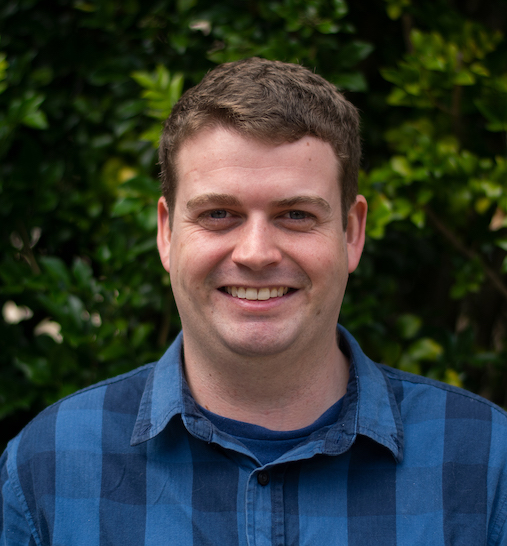
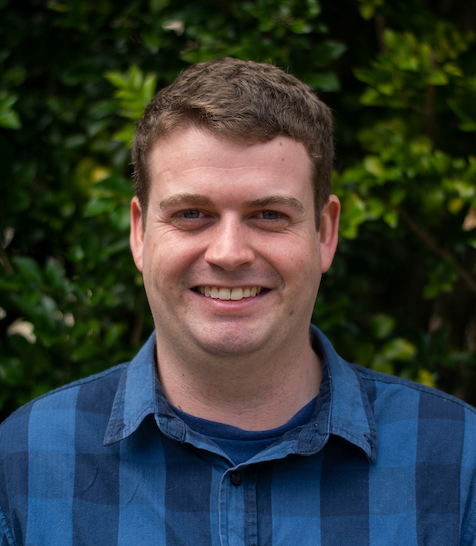
Fixes to presentation on mobile layout

diff --git a/css/site.css b/css/site.css
@@ -97,9 +97,25 @@ ul.ul-edu li .description p {
     margin: 0;
 }
 
+.highlight-img {
+    margin: 1rem;
+}
+
+@media (max-width: 600px) {
+    .highlight-img {
+        margin: 0px;
+    }
+}
+
 .list-img {
-    margin: 10px;
+    margin: 20px;
     border-radius: calc(0.25rem - 1px);
+}
+
+@media (max-width: 600px) {
+    .list-img {
+        margin: 0px;
+    }
 }
 
 #main {
@@ -123,9 +139,8 @@ ul.ul-edu li .description p {
     margin-bottom: 20px;
 }
 
-.pub-abstract {
-    margin: 2rem;
-    padding: 1rem;
+.pub-abstract h5 {
+    margin-top: 4rem;
 }
 
 .publication-details p {
@@ -144,9 +159,19 @@ ul.ul-edu li .description p {
     margin: 2rem 0rem;
 }
 
+.list-item-buttons a {
+    margin-left: 0.5rem;
+}
+
 [data-toggle="collapse"].collapsed .if-not-collapsed {
     display: none;
   }
   [data-toggle="collapse"]:not(.collapsed) .if-collapsed {
     display: none;
   }
+
+@media (max-width: 600px) {
+    .list-item-buttons a {
+        margin-bottom: 1rem;
+    }
+}

diff --git a/resources/coding-resource-list/links_websites.md b/resources/coding-resource-list/links_websites.md
@@ -2,7 +2,7 @@
 
 Name                                                                                                                                                                                     |  Description
 -----------------------------------------------------------------------------------------------------------------------------------------------------------------------------------------|-----------------------------------------------------------------------------------------------------------------------------------------------------------------------------------------------------------------------------------------------------------------------------------------------------------------------------------------------------------------------------------------------------------------------------------------------------------------------------------------------------------------------------------------------------------------------------------------------------------------------------------------------------------------------------
-[NESA Coding and Computational Thinking Across the Curriculum Guide](https://educationstandards.nsw.edu.au/wps/portal/nesa/k-10/learning-areas/technology/coding-across-the-curriculum){: class="text-info" }  |  A website created by NESA that explains what Coding and Computational Thinking are. The guide also includes suggestions for ways of integrating Coding and Computational Thinking into different Key Learning Areas, as well as links to many different websites for learning Coding.
+[NESA Digital technologies and ICT Resources Website](https://educationstandards.nsw.edu.au/wps/portal/nesa/k-10/learning-areas/technology/coding-across-the-curriculum){: class="text-info" }  |  A website created by NESA (the NSW Education Standards Authority) that explains what Coding and Computational Thinking are. The website also includes suggestions for ways of integrating Coding and Computational Thinking into different Key Learning Areas, as well as links to many different websites for learning Coding.
 [Digital Technologies Hub](https://www.digitaltechnologieshub.edu.au/){: class="text-info" }                                                                                                                   |  A website created by [Education Services Australia](https://www.esa.edu.au/){: class="text-info" } that collates a variety of resources for learning and teaching the national Digital Technologies curriculum. The website includes case studies of schools that have begun to implement Digital Technologies, as well as lesson plans and ideas for teaching Digital Technologies.
 [Computer Science Field Guide](http://csfieldguide.org.nz/){: class="text-info" }                                                                                                                              |  An online, free and interactive textbook to help high school studens learn about the different fields within the Computer Science disciple. For example, there are chapters on [Artificial Intelligence](http://csfieldguide.org.nz/en/chapters/artificial-intelligence.html){: class="text-info" } and [Network Communication Protocols](http://csfieldguide.org.nz/en/chapters/network-communication-protocols.html){: class="text-info" }. There is also a teachers' version of the Guide available, which is targeted towards New Zealand teachers but may also be useful for Australian teachers. You can find out more about the teachers' version of the guide [here](http://csfieldguide.org.nz/en/about.html){: class="text-info" }.
 [CS4FN - Computer Science 4 Fun](http://www.cs4fn.org/){: class="text-info" }                                                                                                                                  |  A webpage for the CS4FN (Computer Science for Fun) project. CS4FN publish free magazine (available online and in print) that focus on the fun side of Computer Science.

diff --git a/publications/index.md b/publications/index.md
@@ -32,7 +32,7 @@ title: Daniel Hickmott
                                 <p class="publication-dates">Published {{ pub.publicationDate }}</p>
                             </div>
                             <div class="list-item-buttons">
-                                <a href="{{ pub.locationLink }}" class="btn btn-sm btn-info float-right mx-2"
+                                <a href="{{ pub.locationLink }}" class="btn btn-sm btn-info float-right"
                                     target="_blank">
                                     View at {{ pub.locationLabel }}
                                     <i class="fa fa-external-link publication-icon"></i>
@@ -48,7 +48,7 @@ title: Daniel Hickmott
                                 </button>
                             </div>
                             <div class="collapse my-2 py-2" id="collapse-abstract-{{ pub.id }}">
-                                <div class="row pub-abstract bg-light border border-secondary rounded ">
+                                <div class="pub-abstract">
                                     <h5>Abstract</h5>
                                     <p>{{ pub.abstract }}</p>
                                 </div>
@@ -71,7 +71,7 @@ title: Daniel Hickmott
                                 <p class="publication-dates">In {{ pub.location }} during {{ pub.conferenceDate }}</p>
                             </div>
                             <div class="list-item-buttons">
-                                <a href="{{ pub.locationLink }}" class="btn btn-sm btn-info float-right mx-2"
+                                <a href="{{ pub.locationLink }}" class="btn btn-sm btn-info float-right"
                                     target="_blank">
                                     View at {{ pub.locationLabel }}
                                     <i class="fa fa-external-link publication-icon"></i>
@@ -87,7 +87,7 @@ title: Daniel Hickmott
                                 </button>
                             </div>
                             <div class="collapse my-2 py-2" id="collapse-abstract-{{ pub.id }}">
-                                <div class="row pub-abstract bg-light border border-secondary rounded ">
+                                <div class="pub-abstract">
                                     <h5>Abstract</h5>
                                     <p>{{ pub.abstract }}</p>
                                 </div>
@@ -111,7 +111,7 @@ title: Daniel Hickmott
                                 <p class="publication-dates">In {{ pub.location }} during {{ pub.conferenceDate }}</p>
                             </div>
                             <div class="list-item-buttons">
-                                <a href="{{ pub.locationLink }}" class="btn btn-sm btn-info float-right mx-2"
+                                <a href="{{ pub.locationLink }}" class="btn btn-sm btn-info float-right my-2"
                                     target="_blank">
                                     View at {{ pub.locationLabel }}
                                     <i class="fa fa-external-link publication-icon"></i>
@@ -127,7 +127,7 @@ title: Daniel Hickmott
                                 </button>
                             </div>
                             <div class="collapse my-2 py-2" id="collapse-abstract-{{ pub.id }}">
-                                <div class="row pub-abstract bg-light border border-secondary rounded ">
+                                <div class="pub-abstract">
                                     <h5>Abstract</h5>
                                     <p>{{ pub.abstract }}</p>
                                 </div>

diff --git a/index.md b/index.md
@@ -106,7 +106,7 @@ title: Daniel Hickmott
     <div class="showcase">
         <div class="container">
             <h2>Selected Publications</h2>
-            <p>I have highlighted three of my favourite publications below that I have been an author on. You can see the rest of my publications from the <a href="pubs" class="text-info">Publications page</a>.</p>
+            <p>I have highlighted three of my favourite publications below that I have been an author on. You can see the rest of my publications from the <a href="{{ site.baseurl | append: '/publications/' }}" class="text-info">Publications page</a>.</p>
             <div class="row">
             {% for publication in site.data.publications.selected %}
             <div class="col-md-4">

diff --git a/resources/teachers-learning-coding-list.md b/resources/teachers-learning-coding-list.md
@@ -9,7 +9,7 @@ title: Daniel Hickmott
             <h2>{{ site.data.resources[0].title }}</h2>
             <div class="row">
                 <div class="col-md-4 offset-md-4">
-                    <img class = "img-fluid project-img border border-secondary" src = "{{ site.baseurl | append: '/resources/images/' | append: site.data.resources[0].imageFilePath }}">
+                    <img class = "img-fluid highlight-img border border-secondary" src = "{{ site.baseurl | append: '/resources/images/' | append: site.data.resources[0].imageFilePath }}">
                 </div>
             </div>
             <h3>About</h3>   

diff --git a/media/index.md b/media/index.md
@@ -56,7 +56,7 @@ title: Daniel Hickmott
                                         <i class="fa fa-youtube media-icon"></i>
                                     </a>
                                     <a href="{{ video.findOutMoreLink }}"
-                                        class="btn btn-sm btn-info float-right mx-2"
+                                        class="btn btn-sm btn-info float-right"
                                         target="_blank">
                                         {{ video.findOutMoreLabel }}
                                         <i class="fa fa-external-link media-icon"></i>

diff --git a/projects/cs4s.md b/projects/cs4s.md
@@ -8,7 +8,7 @@ title: Daniel Hickmott
         <h2>{{ site.data.projects[0].title }}</h2>
         <div class="row">
             <div class="col-md-4 offset-md-4">
-                <img class = "img-fluid project-img border border-secondary" src = "{{ site.baseurl | append: '/projects/images/' | append: site.data.projects[0].imageFilePath }}">
+                <img class = "img-fluid highlight-img border border-secondary" src = "{{ site.baseurl | append: '/projects/images/' | append: site.data.projects[0].imageFilePath }}">
             </div>
         </div>
         <h3>About</h3>

diff --git a/projects/learnwebvr.md b/projects/learnwebvr.md
@@ -8,7 +8,7 @@ title: Daniel Hickmott
         <h2>{{ site.data.projects[2].title }}</h2>
         <div class="row">
             <div class="col-md-4 offset-md-4">
-                <img class = "img-fluid project-img border border-secondary" src = "{{ site.baseurl | append: '/projects/images/' | append: site.data.projects[2].imageFilePath }}">
+                <img class = "img-fluid highlight-img border border-secondary" src = "{{ site.baseurl | append: '/projects/images/' | append: site.data.projects[2].imageFilePath }}">
             </div>
         </div>
         <h3>About</h3>

diff --git a/projects/literacy-apps.md b/projects/literacy-apps.md
@@ -8,7 +8,7 @@ title: Daniel Hickmott
         <h2>{{ site.data.projects[1].title }}</h2>
         <div class="row">
             <div class="col-md-4 offset-md-4">
-                <img class = "img-fluid project-img border border-secondary" src = "{{ site.baseurl | append: '/projects/images/' | append: site.data.projects[1].imageFilePath }}">
+                <img class = "img-fluid highlight-img border border-secondary" src = "{{ site.baseurl | append: '/projects/images/' | append: site.data.projects[1].imageFilePath }}">
             </div>
         </div>
         <h3>About</h3>

diff --git a/publications/serious-game-analytics.md b/publications/serious-game-analytics.md
@@ -8,7 +8,7 @@ title: Daniel Hickmott
         <h1>{{ site.data.publications.conference.co-author[1].title }}</h1>
         <div class="row">
             <div class="col-md-4 offset-md-4">
-                <img class = "img-fluid project-img border border-secondary my-3" 
+                <img class = "img-fluid highlight-img border border-secondary my-3" 
                     src = "{{ site.baseurl | append: '/publications/images/' | append: site.data.publications.conference.co-author[1].imageFilePath }}">
             </div>
         </div>

diff --git a/publications/assessing-tpd.md b/publications/assessing-tpd.md
@@ -8,7 +8,7 @@ title: Daniel Hickmott
         <h1>{{ site.data.publications.journal.first[0].title }}</h1>
         <div class="row">
             <div class="col-md-4 offset-md-4">
-                <img class = "img-fluid project-img border border-secondary my-3" 
+                <img class = "img-fluid highlight-img border border-secondary my-3" 
                     src = "{{ site.baseurl | append: '/publications/images/' | append: site.data.publications.journal.first[0].imageFilePath }}">
             </div>
         </div>

diff --git a/publications/scoping-review.md b/publications/scoping-review.md
@@ -8,7 +8,7 @@ title: Daniel Hickmott
         <h1>{{ site.data.publications.journal.first[1].title }}</h1>
         <div class="row">
             <div class="col-md-4 offset-md-4">
-                <img class = "img-fluid project-img border border-secondary my-3" 
+                <img class = "img-fluid highlight-img border border-secondary my-3" 
                     src = "{{ site.baseurl | append: '/publications/images/' | append: site.data.publications.journal.first[1].imageFilePath }}">
             </div>
         </div>
